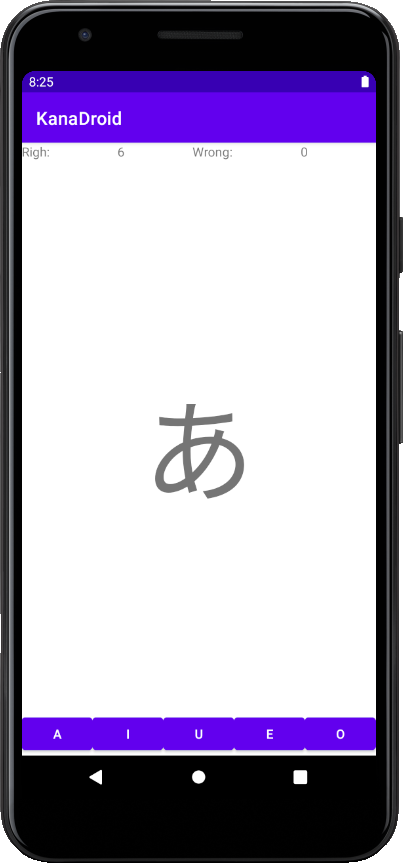
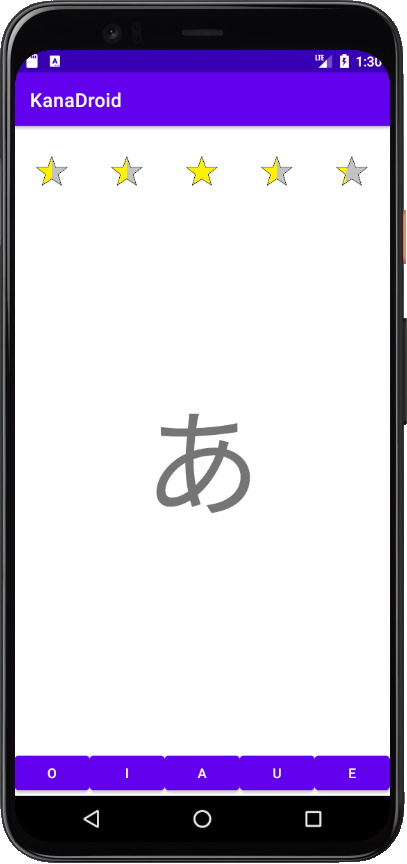
Star progress indicator added

Changed region(s): [[0.0, 0.0, 1.0, 1.0], [0.3871, 0.4688, 0.6253, 0.5938]]

diff --git a/app/src/main/java/com/ilya/kanadroid/PlayActivity.java b/app/src/main/java/com/ilya/kanadroid/PlayActivity.java
@@ -1,15 +1,16 @@
 package com.ilya.kanadroid;
 
+import androidx.annotation.DrawableRes;
 import androidx.appcompat.app.AppCompatActivity;
 
 import android.content.Intent;
 import android.os.Bundle;
 import android.view.View;
 import android.widget.Button;
+import android.widget.ImageView;
 import android.widget.TextView;
 
 import java.util.ArrayList;
-import java.util.Collections;
 
 public class PlayActivity extends AppCompatActivity implements View.OnClickListener, IPlayUi {
     // public:
@@ -53,11 +54,20 @@ public class PlayActivity extends AppCompatActivity implements View.OnClickListe
         textView = findViewById(R.id.letterTextView);
         rightView = findViewById(R.id.rightView);
         wrongView = findViewById(R.id.wrongView);
-        buttons.add((Button)findViewById(R.id.button1));
-        buttons.add((Button)findViewById(R.id.button2));
-        buttons.add((Button)findViewById(R.id.button3));
-        buttons.add((Button)findViewById(R.id.button4));
-        buttons.add((Button)findViewById(R.id.button5));
+        {
+            buttons.add((Button) findViewById(R.id.button1));
+            buttons.add((Button) findViewById(R.id.button2));
+            buttons.add((Button) findViewById(R.id.button3));
+            buttons.add((Button) findViewById(R.id.button4));
+            buttons.add((Button) findViewById(R.id.button5));
+        }
+        {
+            stars.add((ImageView) findViewById(R.id.starImageView1));
+            stars.add((ImageView) findViewById(R.id.starImageView2));
+            stars.add((ImageView) findViewById(R.id.starImageView3));
+            stars.add((ImageView) findViewById(R.id.starImageView4));
+            stars.add((ImageView) findViewById(R.id.starImageView5));
+        }
         for(int i = 0; i < 5; ++i){
             buttons.get(i).setOnClickListener(this);
         }
@@ -67,7 +77,7 @@ public class PlayActivity extends AppCompatActivity implements View.OnClickListe
     public void showCongratsLevel(final int level){
         System.out.println("showCongratsLevel: " + level);
         Intent intent = new Intent(this, CongratsActivity.class);
-        String congrat = "You reached level " + play.getLevel();
+        String congrat = "You reached level " + level;
         System.out.println("showCongratsLevel: " + congrat);
         intent.putExtra("text", congrat);
         startActivity(intent);
@@ -84,14 +94,33 @@ public class PlayActivity extends AppCompatActivity implements View.OnClickListe
     private void updateInterface() {
         ArrayList<Letter> lettersSet = play.getLettersSet();
         ArrayList<Letter> buttonsSet = play.getButtonsSet();
+        int[] rightAnswers = play.getRightLetter();
+        assert (lettersSet.size() == buttonsSet.size());
+        assert (lettersSet.size() == rightAnswers.length);
+
         for(int i = 0; i < 5; ++i){
             buttons.get(i).setText(buttonsSet.get(i).reading);
+            ImageView star = stars.get(i);
+            switch (rightAnswers[i]) {
+                case 0:
+                    star.setImageResource(R.drawable.star_empty);
+                    break;
+                case 1:
+                    star.setImageResource(R.drawable.star_quart);
+                    break;
+                case 2:
+                    star.setImageResource(R.drawable.star_half);
+                    break;
+                default:
+                    star.setImageResource(R.drawable.star_full);
+            }
         }
         textView.setText(play.getCurrentLetter().letter);
     }
 
     // private data:
     private ArrayList<Button> buttons = new ArrayList<Button>();
+    private ArrayList<ImageView> stars = new ArrayList<ImageView>();
     private TextView textView;
     private TextView rightView;
     private TextView wrongView;

diff --git a/app/src/main/java/com/ilya/kanadroid/Play.java b/app/src/main/java/com/ilya/kanadroid/Play.java
@@ -22,30 +22,28 @@ public class Play {
         String rightAnswer = currentLetter.reading;
         if(answer.equals(rightAnswer)){
             ++right;
-            rightLetter[currentIndex] = true;
+            ++rightLetter[currentIndex];
 
             System.out.println("Answers: " + Arrays.toString(rightLetter));
 
             if(isAllTrue()){
                 boolean finished = abc.isFinished();
                 System.out.println("Update level");
-                updateLevel();
                 if(finished) {
                     playUi.showCongratsWin();
                 }else {
-                    playUi.showCongratsLevel(level);
+                    playUi.showCongratsLevel(level + 1);
                 }
+                updateLevel();
             }else{
                 System.out.println("Update letters");
                 updateLetter();
             }
             return true;
         }else{
-            updateLetter();
+            rightLetter[currentIndex] = 0;
             ++wrong;
-            for(int i = 0; i < 5; ++i){
-                rightLetter[i] = false;
-            }
+            updateLetter();
             return false;
         }
     }
@@ -70,16 +68,26 @@ public class Play {
         return wrong;
     }
 
+    public int[] getRightLetter() {
+        return rightLetter;
+    }
+
     // private:
     private void updateLetter(){
-        Letter oldLetter = currentLetter;
         currentIndex = (currentIndex + 1) % lettersSet.size();
-        Letter newLetter = lettersSet.get(currentIndex);
+        setLetter(currentIndex);
+    }
+
+    private void setLetter(int index) {
+        Letter oldLetter = currentLetter;
+        Letter newLetter = lettersSet.get(index);
 
         currentLetter = newLetter;
     }
+
     private void updateLevel(){
         loadLetters();
+        currentIndex = 0;
         ++level;
     }
     private void loadLetters(){
@@ -89,15 +97,15 @@ public class Play {
         Collections.shuffle(buttonsSet);
 
         for(int i = 0; i < 5; ++i){
-            rightLetter[i] = false;
+            rightLetter[i] = 0;
         }
-        updateLetter();
+        setLetter(0);
     }
 
     private boolean isAllTrue() {
         boolean allTrue = true;
         for(int i = 0; i < 5; ++i) {
-            if(rightLetter[i] == false) {
+            if(rightLetter[i] < 3) {
                 allTrue = false;
             }
         }
@@ -127,5 +135,6 @@ public class Play {
     private int right = 0;
     private int wrong = 0;
     private int currentIndex = 0;
-    private boolean[] rightLetter = new boolean[5];
+
+    private int[] rightLetter = new int[5];
 }

diff --git a/README.md b/README.md
@@ -6,3 +6,4 @@
 
 ## Credits
 * [Image](https://pixabay.com/images/id-5926892/)
+* [Image](https://commons.wikimedia.org/wiki/File:A_star.png)
